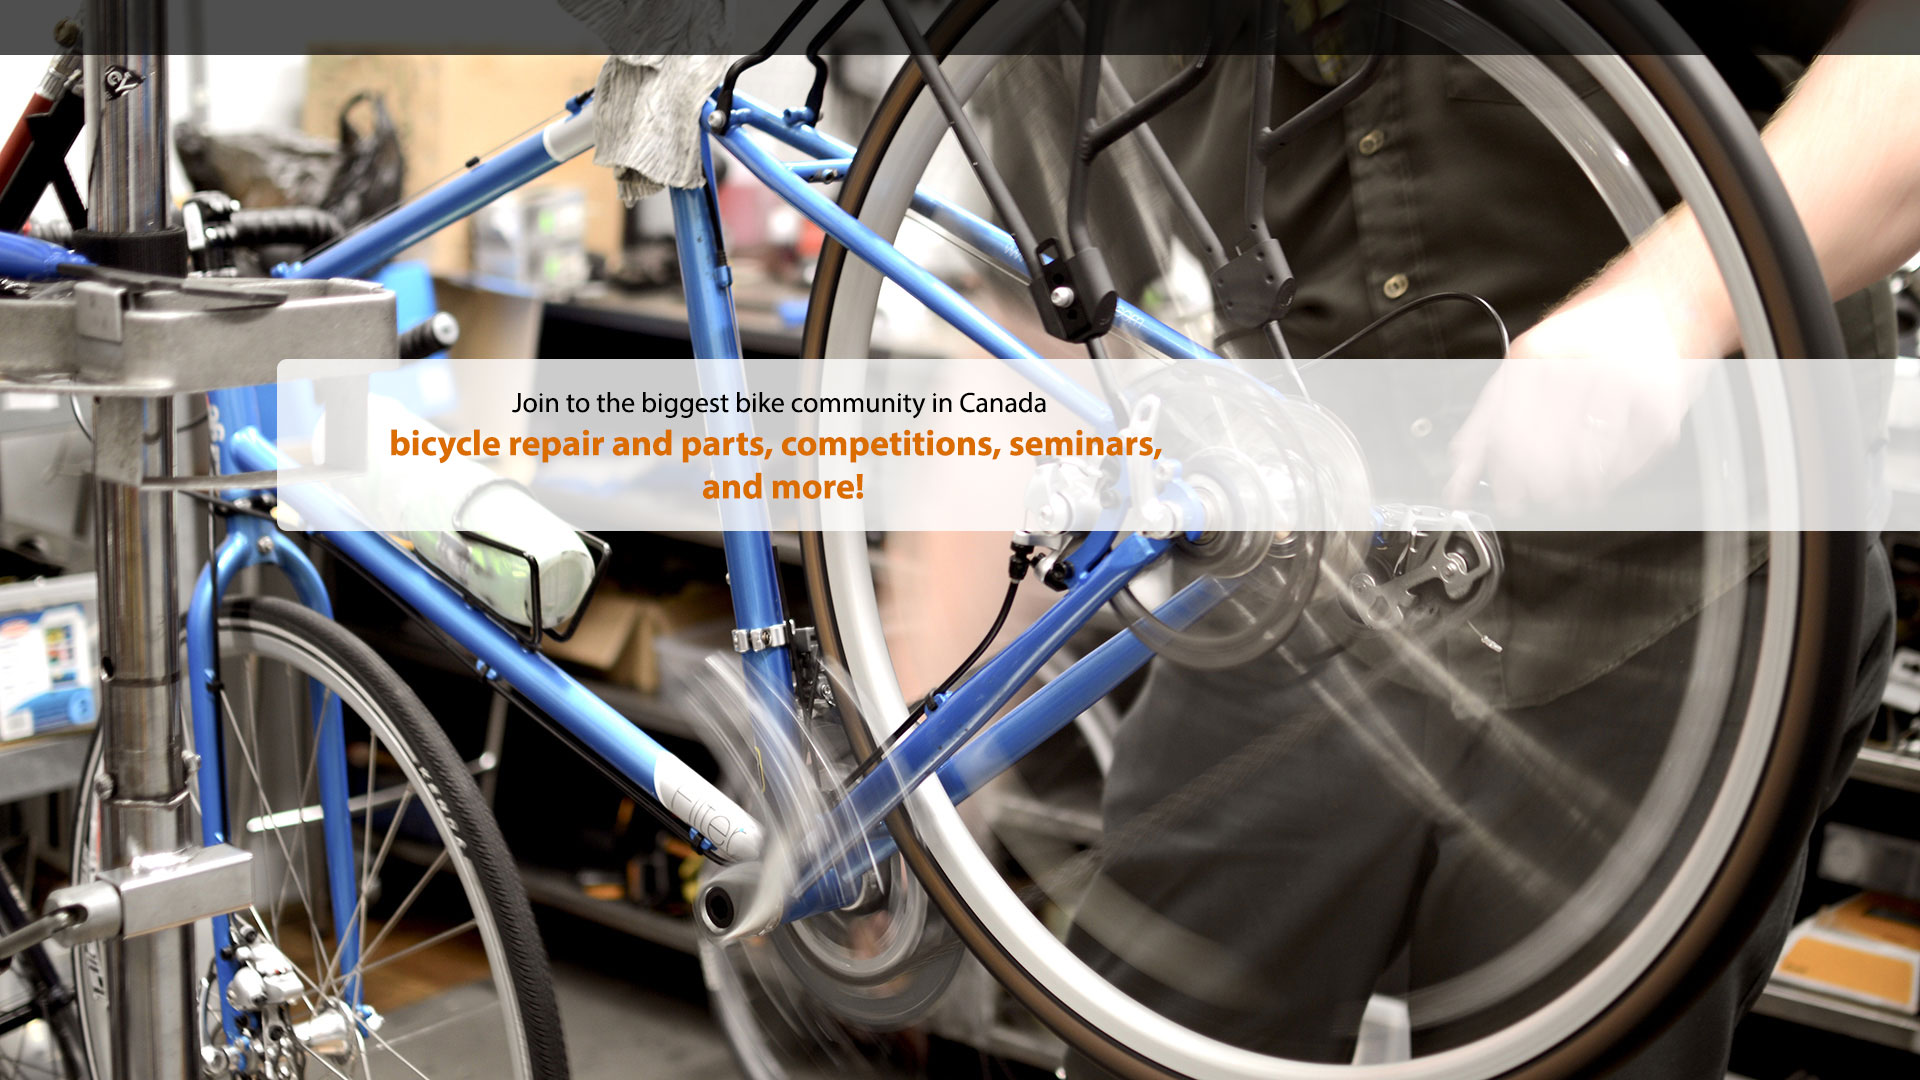
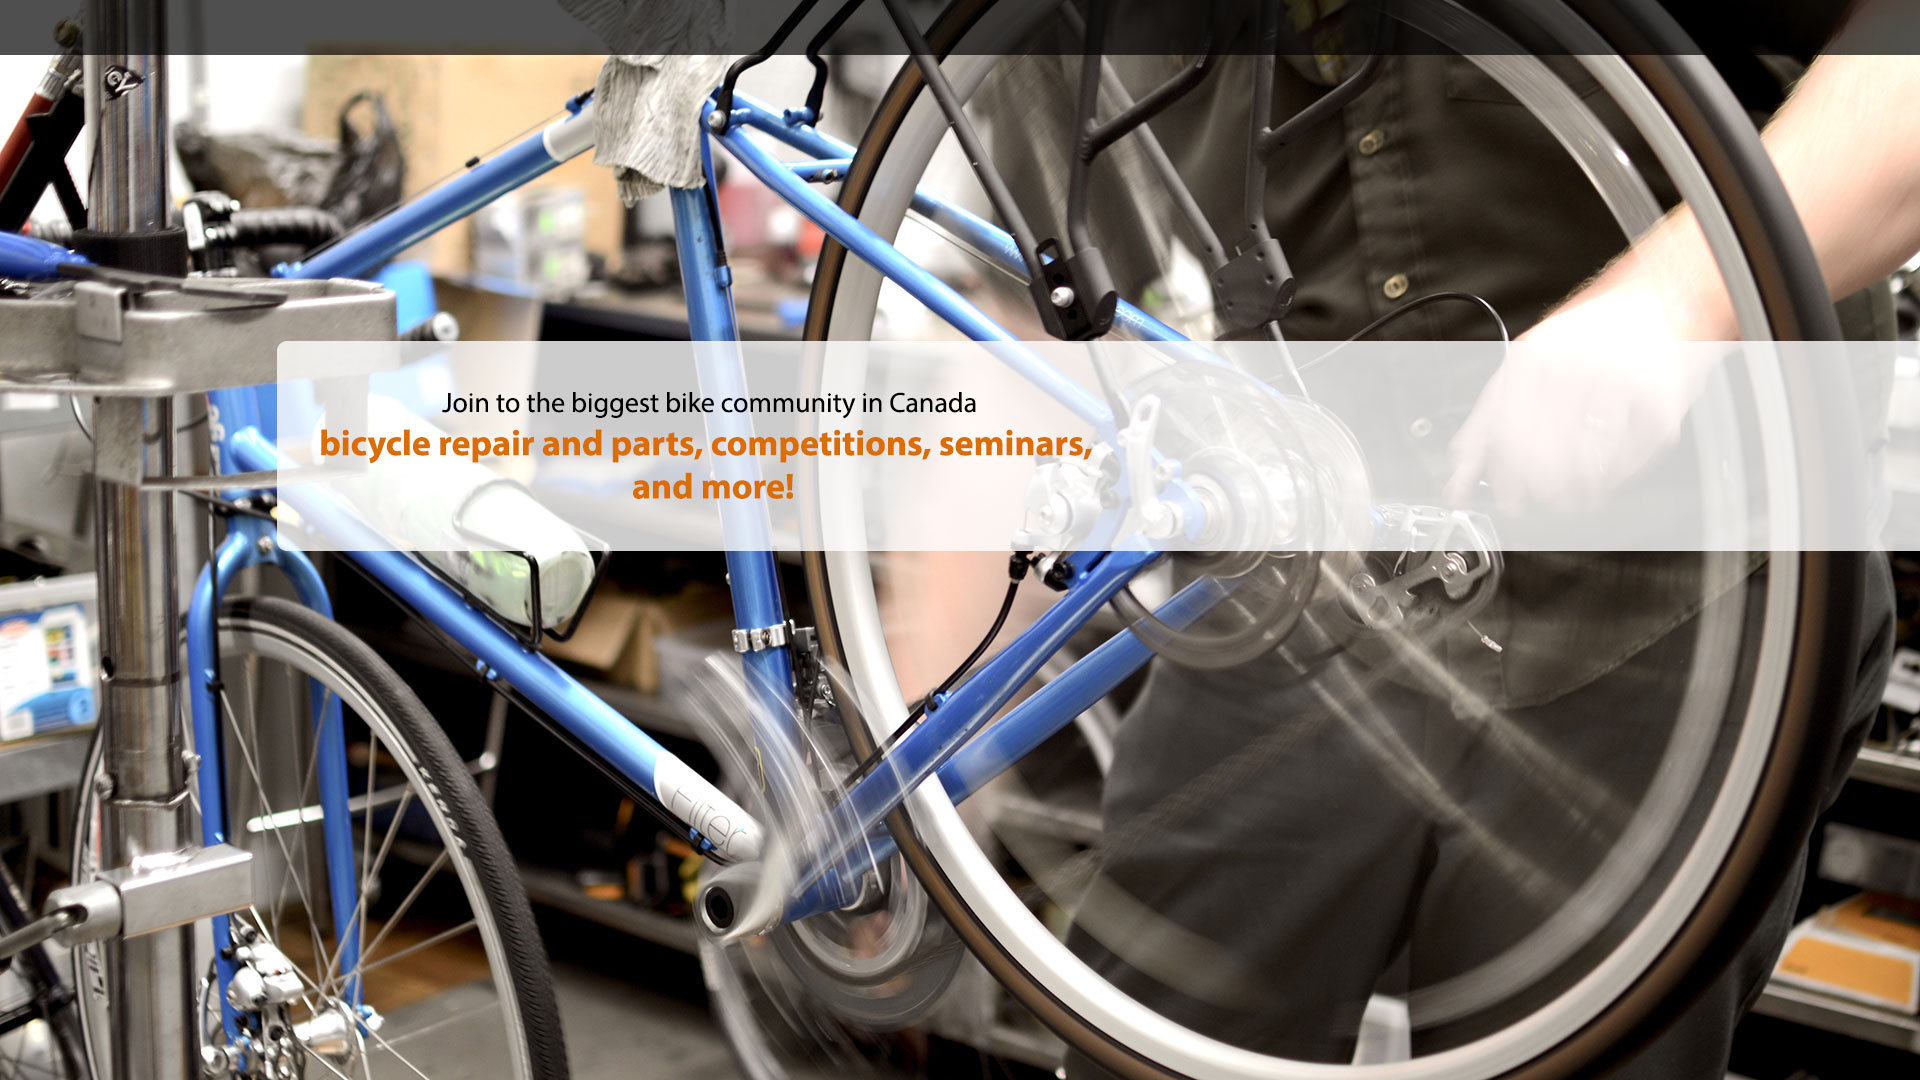
Index new changes.

diff --git a/index.html b/index.html
@@ -40,14 +40,11 @@
 	background-image: url(images/a04.jpg);
 	padding: 6% 0 0 0;
 }
-#section1 h1{
-	color: #000;
-	size: 36px;
-}
 
-#section1 h1{
+h1{
 	color: #DB6D00;
 	size: 28px;
+margin-top:6px
 }
 #fondoBlanco{
 	background-color:#FFFFFF;
@@ -58,9 +55,23 @@
 	display: inline-block;
 	/* overflow: auto; */
 	width:450px;
-	height:200px;
-	margin-top:-250px;
+	height:400px;
+	margin-top:-280px;
 	text-align:left;
+	background-color: rgba(255, 255, 255, 0.90);
+	border-radius: 8px;
+    /* border: 1px solid #DB6D00; */
+    padding: 14px; 
+	padding-top:0px;
+}
+#contacto{
+	display: inline-block;
+	background-color: rgba(255, 255, 255, 0.90);
+	width:600px;
+	text-align:left;
+	padding: 14px; 
+	padding-top:0px;
+	border-radius: 8px;
 }
     
 </style>
@@ -77,14 +88,13 @@
 
     <div id="pagepiling">
         <div class="section" id="section1">
-			<h2>Join to the biggest bike community in Canada</h2>
-			<h1>bicycle repair and parts, competitions, seminars, <br />
-		    and more!</h1>
+
 			
 		</div>
         <div class="section" id="section2">
         <div id="infoService">
-                <p><strong>Help at time</strong></p>
+        <h1>Services</h1>
+                <p><strong>Help at time:</strong></p>
 
         <ul>
 <li>Precision wheel truing and hub adjustments</li>
@@ -96,7 +106,7 @@
 <li>Lubrication of drivetrain</li>
 <li>Light frame and wheel cleaning</li>
 </ul>
-        <p><strong>Hands On Repair Seminars</strong></p>
+        <p><strong>Hands On Repair Seminars:</strong></p>
         <p>Comprehensive hands on bicycle repair and maintenance course. Gain bicycle confidence and meet other cyclists. Learn to fix broken chains, properly size a new chain, flat tires, wobbly wheels, adjust bearings, remove crankarms, adjust gears, align derailleur hanger, tune brakes etc. </p>
         </div>
 
@@ -110,9 +120,11 @@
         <div class="section" id="section4">
         <div id="contacto">
         <h1>Contact us</h1>
-        Find us beside Sherbourne Station every weekend at 6am. <br />416-999-0000. <br />
-        </div>
-			<iframe src="https://www.google.com/maps/embed?pb=!1m18!1m12!1m3!1d2885.8576633117314!2d-79.37583417715743!3d43.6719299926829!2m3!1f0!2f0!3f0!3m2!1i1024!2i768!4f13.1!3m3!1m2!1s0x89d4cb538b37944d%3A0x3667dfe371c21f7f!2sSherbourne+Station!5e0!3m2!1sen!2sca!4v1462890363289" width="600" height="450" frameborder="0" style="border:0" allowfullscreen></iframe>
+        <p>Find us beside <strong>Sherbourne Station</strong> every weekend at 6am. Tlf: 416-999-0000.<br />
+		  </p>
+        <iframe src="https://www.google.com/maps/embed?pb=!1m18!1m12!1m3!1d2885.8576633117314!2d-79.37583417715743!3d43.6719299926829!2m3!1f0!2f0!3f0!3m2!1i1024!2i768!4f13.1!3m3!1m2!1s0x89d4cb538b37944d%3A0x3667dfe371c21f7f!2sSherbourne+Station!5e0!3m2!1sen!2sca!4v1462890363289" width="600" height="450" frameborder="0" style="border:0" allowfullscreen></iframe>
+                    </div>
+
 		</div>
     </div>
 </body>
